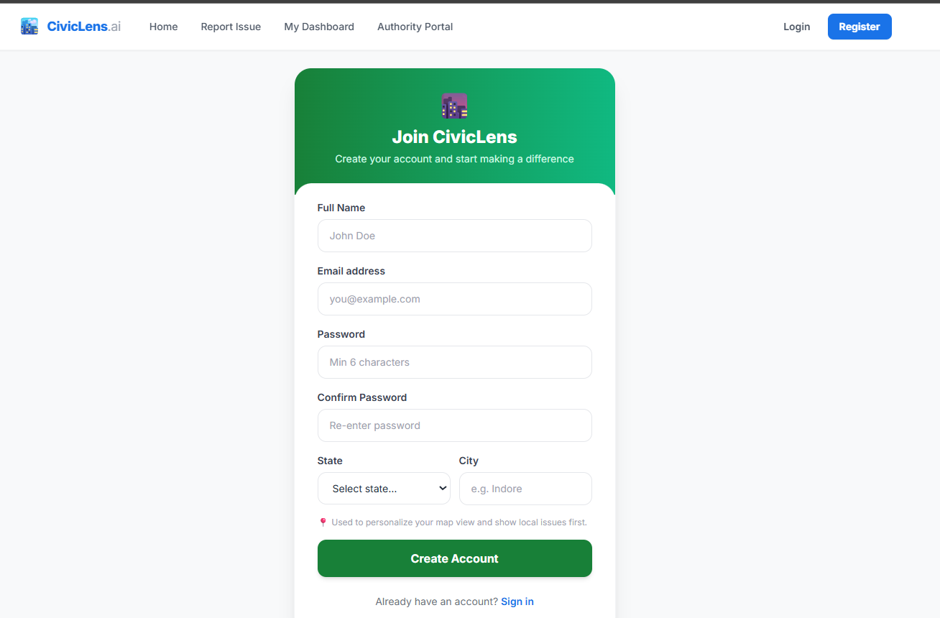
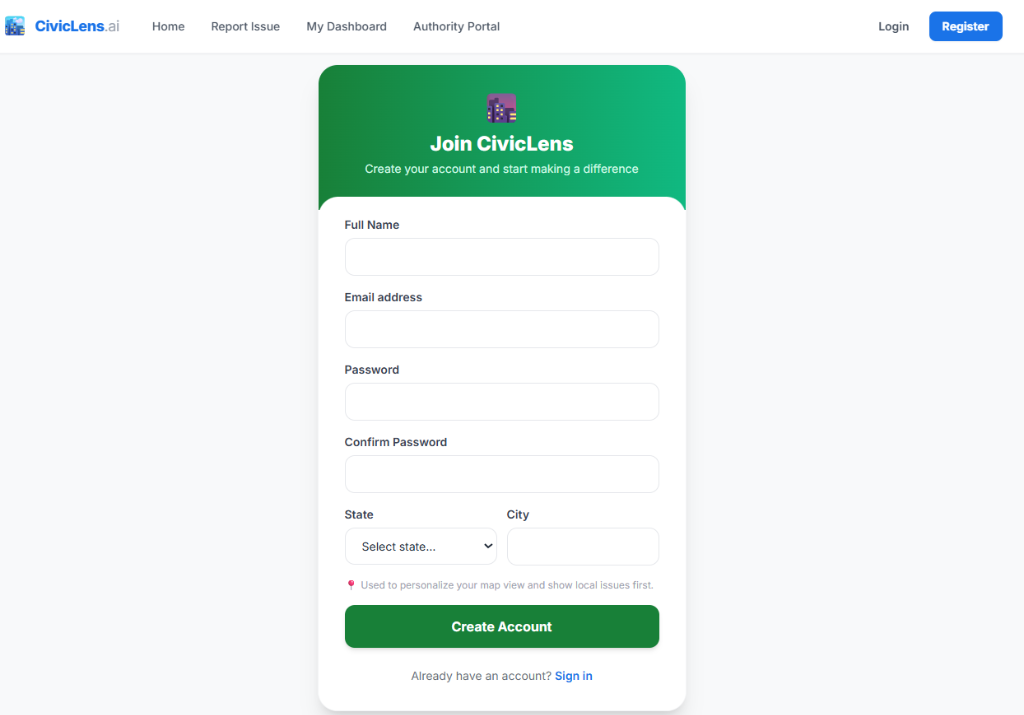
Minor UI and documentation updates

diff --git a/client/src/pages/Register.jsx b/client/src/pages/Register.jsx
@@ -78,7 +78,6 @@ export default function Register() {
                   className="w-full px-4 py-3 border border-gray-200 rounded-xl text-sm text-gray-800
                     focus:outline-none focus:ring-2 focus:ring-civic-success/40 focus:border-civic-success
                     transition-all duration-200 placeholder-gray-400"
-                  placeholder="John Doe"
                   disabled={loading}
                 />
               </div>
@@ -94,7 +93,6 @@ export default function Register() {
                   className="w-full px-4 py-3 border border-gray-200 rounded-xl text-sm text-gray-800
                     focus:outline-none focus:ring-2 focus:ring-civic-success/40 focus:border-civic-success
                     transition-all duration-200 placeholder-gray-400"
-                  placeholder="[email redacted]"
                   disabled={loading}
                 />
               </div>
@@ -110,7 +108,6 @@ export default function Register() {
                   className="w-full px-4 py-3 border border-gray-200 rounded-xl text-sm text-gray-800
                     focus:outline-none focus:ring-2 focus:ring-civic-success/40 focus:border-civic-success
                     transition-all duration-200 placeholder-gray-400"
-                  placeholder="Min 6 characters"
                   disabled={loading}
                 />
               </div>
@@ -128,7 +125,6 @@ export default function Register() {
                     ${confirmPw && confirmPw !== password
                       ? 'border-red-300 focus:ring-red-200 focus:border-red-400'
                       : 'border-gray-200 focus:ring-civic-success/40 focus:border-civic-success'}`}
-                  placeholder="Re-enter password"
                   disabled={loading}
                 />
                 {confirmPw && confirmPw !== password && (
@@ -163,7 +159,6 @@ export default function Register() {
                   value={city}
                   onChange={e => setCity(e.target.value)}
                   disabled={loading}
-                  placeholder="e.g. Indore"
                   className="w-full px-4 py-3 border border-gray-200 rounded-xl text-sm text-gray-800
                     focus:outline-none focus:ring-2 focus:ring-civic-success/40 focus:border-civic-success
                     transition-all duration-200 placeholder-gray-400"

diff --git a/client/src/pages/Home.jsx b/client/src/pages/Home.jsx
@@ -335,7 +335,7 @@ export default function Home() {
         <div className="flex flex-wrap justify-center gap-10 fade-up" style={{ animationDelay: '0.4s' }}>
           {[
             { n: statsLoading ? '...' : ((stats && stats.total_issues) || 15) + '+', label: 'Issues Analyzed' },
-            { n: '3',  label: 'Autonomous AI Agents' },
+            { n: '5',  label: 'Autonomous AI Agents' },
             { n: '5+', label: 'Departments Connected' },
           ].map((s, i) => (
             <div key={i} className="text-center">

diff --git a/client/src/pages/Login.jsx b/client/src/pages/Login.jsx
@@ -69,7 +69,6 @@ export default function Login() {
                   className="w-full px-4 py-3 border border-gray-200 rounded-xl text-sm text-gray-800
                     focus:outline-none focus:ring-2 focus:ring-civic-primary/40 focus:border-civic-primary
                     transition-all duration-200 placeholder-gray-400"
-                  placeholder="[email redacted]"
                   disabled={loading}
                 />
               </div>
@@ -87,7 +86,6 @@ export default function Login() {
                   className="w-full px-4 py-3 border border-gray-200 rounded-xl text-sm text-gray-800
                     focus:outline-none focus:ring-2 focus:ring-civic-primary/40 focus:border-civic-primary
                     transition-all duration-200 placeholder-gray-400"
-                  placeholder="••••••••"
                   disabled={loading}
                 />
               </div>

diff --git a/create_docx.py b/create_docx.py
@@ -1,0 +1,56 @@
+import os
+import re
+from docx import Document
+from docx.shared import Inches
+
+def create_doc():
+    doc = Document()
+    
+    with open('submission_report.md', 'r', encoding='utf-8') as f:
+        content = f.read()
+        
+    lines = content.split('\n')
+    
+    for line in lines:
+        line = line.strip()
+        if not line:
+            continue
+            
+        # Check if it's a heading
+        if line.startswith('# '):
+            doc.add_heading(line[2:].replace('**', ''), 0)
+        elif line.startswith('## '):
+            doc.add_heading(line[3:].replace('**', ''), 1)
+        elif line.startswith('### '):
+            doc.add_heading(line[4:].replace('**', ''), 2)
+            
+        # Check if it's an image
+        elif line.startswith('![') and '](' in line:
+            # Extract image path
+            match = re.search(r'!\[.*?\]\((.*?)\)', line)
+            if match:
+                img_path = match.group(1)
+                if img_path.startswith('./'):
+                    img_path = img_path[2:]
+                if os.path.exists(img_path):
+                    try:
+                        doc.add_picture(img_path, width=Inches(5.5))
+                    except Exception as e:
+                        doc.add_paragraph(f"Error loading image: {img_path}")
+                else:
+                    doc.add_paragraph(f"[Image not found: {img_path}]")
+        
+        # Check if it's a list item
+        elif line.startswith('- ') or line.startswith('* '):
+            clean_line = line[2:].replace('**', '')
+            doc.add_paragraph(clean_line, style='List Bullet')
+            
+        else:
+            clean_line = line.replace('**', '')
+            doc.add_paragraph(clean_line)
+            
+    doc.save('CivicLens_Submission_Report.docx')
+    print("Successfully generated CivicLens_Submission_Report.docx!")
+
+if __name__ == "__main__":
+    create_doc()

diff --git a/verify_docx.py b/verify_docx.py
@@ -1,0 +1,19 @@
+from docx import Document
+
+try:
+    doc = Document('CivicLens_Submission_Report.docx')
+    paragraphs = len(doc.paragraphs)
+    
+    # In python-docx, images are stored in inline shapes
+    images = 0
+    for p in doc.paragraphs:
+        for r in p.runs:
+            if r._element.xpath('.//pic:pic'):
+                images += len(r._element.xpath('.//pic:pic'))
+    
+    print(f"Verification Success!")
+    print(f"Total Paragraphs/Headings: {paragraphs}")
+    print(f"Total Images successfully embedded: {images}")
+    
+except Exception as e:
+    print(f"Error reading docx: {e}")

diff --git a/submission_report.md b/submission_report.md
@@ -1,6 +1,5 @@
 # CivicLens.ai - Project Description
 
-*(Note: Copy and paste the contents of this document directly into your Google Doc for submission)*
 
 ## Problem Statement Selected
 **Community Hero - Hyperlocal Problem Solver**
@@ -15,60 +14,77 @@ The core innovation of CivicLens is enforcing government accountability. We real
 **Overcoming Bureaucratic Constraints (API-Ready Design):**
 Recognizing the legal and bureaucratic impossibility of directly integrating with legacy government IT systems during a hackathon, we built CivicLens to be modular and "API-Ready." We created a simulated Authority Dashboard (the "Oracle") to demonstrate how government officials would receive AI-processed data. The moment a city grants API access, our AI router simply swaps its database write for a POST request to their native grievance system—requiring zero changes to our AI logic.
 
+## 🚀 Live Links & Demo Access
+- **Live App:** [https://civiclens-ca27d.web.app](https://civiclens-ca27d.web.app)
+- **GitHub Repository:** [https://github.com/Aryan4283/civiclens-ai](https://github.com/Aryan4283/civiclens-ai)
+- **Demo Account (Judges):** Use the following credentials to bypass registration and instantly test the platform.
+  - **Email:** [email redacted]
+  - **Password:** CivicLens2026
+
 ## Key Features & Visual Journey
 
 **1. Seamless Citizen Onboarding**
 Citizens are welcomed by a modern, accessible interface that immediately drives action.
-*Insert: `01-landing-page.png`, `02-home-feed.png`, `03-register.png`, `04-login.png`*
+![Landing Page](./screenshots/01-landing-page.png)
+![Home Feed](./screenshots/02-home-feed.png)
+![Register](./screenshots/03-register.png)
+![Login](./screenshots/04-login.png)
 
 **2. Mega-Issue Clustering (The Feed)**
 To prevent spamming the government, if 50 people report the same pothole, our geolocation algorithm merges them into a single "Mega-Issue," proving massive public impact instead of creating 50 duplicate tickets.
-*Insert: `05-issue-cards.png`*
+![Mega-Issue Clustering](./screenshots/05-issue-cards.png)
 
 **3. Multi-Modal Vision & Multilingual Input**
 Users upload a photo of the issue. Our Observer Agent uses Gemini to automatically extract the category, assess the severity (1-5), and generate a detailed hazard description. Additionally, we support multilingual text input — citizens can describe issues in Hindi, Marathi, or any regional language, and the AI translates automatically.
-*Insert: `06-report-upload.png`, `07-report-analysis.png`, `08-report-confirmed.png`*
+![Report Upload](./screenshots/06-report-upload.png)
+![AI Analysis](./screenshots/07-report-analysis.png)
+![Report Confirmed](./screenshots/08-report-confirmed.png)
 
 **4. The SLA Engine & Citizen Chatbot**
 Every issue is given a strict AI-calculated deadline based on severity. The issue detail page also features a contextual chatbot where citizens can ask questions about the SLA, and Gemini answers using the issue's real-time metadata.
-*Insert: `09-issue-detail.png`, `10-issue-complaint.png`*
+![Issue Detail & SLA](./screenshots/09-issue-detail.png)
+![Citizen Chatbot](./screenshots/10-issue-complaint.png)
 
 **5. Gamification (Civic Points)**
 To combat apathy, citizens earn points and climb the leaderboard by reporting issues and physically verifying other people's reports, building a decentralized ledger of civic truth.
-*Insert: `11-citizen-dashboard.png`*
+![Citizen Dashboard](./screenshots/11-citizen-dashboard.png)
 
 **6. AI Quality Assurance (Resolution Proof)**
 When an authority claims to have fixed an issue, they upload a photo. The AI acts as an impartial inspector, comparing the original issue to the repair photo to prevent fraudulent ticket closures.
-*Insert: `12-fix-proof.png`, `13-before-after.png`*
+![Fix Proof Upload](./screenshots/12-fix-proof.png)
+![AI Before/After Comparison](./screenshots/13-before-after.png)
 
 **7. The Authority Dashboard (The Command Center & Oracle)**
 We built a comprehensive, AI-powered command center for government officials to manage city infrastructure efficiently. Instead of relying on manual data entry, the dashboard provides predictive analytics and real-time SLA tracking.
 
 - **Authority Workspace & Identity:** A secure, centralized portal where government officials log in to oversee city-wide infrastructure issues.
-  *Insert: `14_logged_in.png`*
+  ![Authority Workspace](./screenshots/14_logged_in.png)
 
 - **AI Action Queue & Kanban Board:** A real-time, status-based Kanban board with dropdown controls that tracks incoming issues. The system automatically prioritizes tickets based on their AI-assigned severity score and SLA deadlines, ensuring critical emergencies never slip through the cracks.
-  *Insert: `15-action-queue.png`, `19-kanban.png`*
+  ![Action Queue](./screenshots/15-action-queue.png)
+  ![Kanban Board](./screenshots/19-kanban.png)
 
 - **Department Scorecard (Impact Dashboard):** A transparency tool that tracks the overall resolution rate, average SLA compliance, and civic points. This enforces accountability by showing exactly how fast authorities respond to citizen complaints.
-  *Insert: `16-scorecard.png`*
+  ![Department Scorecard](./screenshots/16-scorecard.png)
 
 - **The Civic Oracle (AI Predictive Reports):** A powerful AI report generator exclusively for government officials. By generating predictive reports, the Oracle analyzes city-wide data to detect recurring issues (e.g., repeating water leaks in the same ward) and forecasts future infrastructure failures, shifting the government from being *reactive* to *preventative*.
-  *Insert: `17-oracle.png`, `18-city-report.png`*
+  ![Civic Oracle Dashboard](./screenshots/17-oracle.png)
+  ![Predictive City Report](./screenshots/18-city-report.png)
 
 ## Technologies Used
 - **Frontend:** React.js, Vite, Tailwind CSS (Glassmorphism design system)
-- **Backend:** Node.js, Express
-- **Database:** Firebase Firestore (NoSQL, Real-time)
+- **Backend:** Node.js, Express, Node-Cron (Autonomous Background Jobs)
+- **Database:** Firebase Firestore (NoSQL, Real-time Base64 Media Storage)
 - **Authentication:** Firebase Auth
 - **Containerization:** Docker
 
 ## Google Technologies Utilized
-- **Google Gen AI SDK (Gemini):** This is the core intelligence of the platform. We utilized `gemini-3.5-flash` to power four distinct agents:
-  - **Observer Agent:** Utilizes True Function Calling (Structured JSON outputs) to process multi-modal image uploads and multilingual text input — citizens can describe issues in Hindi, Marathi, or any regional language; AI translates automatically.
-  - **Router Agent:** Utilizes RAG (Retrieval-Augmented Generation) to analyze synthetic municipal policy documents (`sla_document.md`) and assign legal deadlines.
+- **Google Gen AI SDK (Gemini):** This is the core intelligence of the platform. We utilized `gemini-3.5-flash` to power five distinct agents:
+  - **Observer Agent:** Utilizes True Function Calling (Structured JSON outputs) to perform Computer Vision analysis on multi-modal image and video-based issue reporting, and process multilingual text input — citizens can describe issues in Hindi, Marathi, or any regional language; AI translates automatically.
+  - **Router Agent:** Utilizes RAG (Retrieval-Augmented Generation) to analyze synthetic municipal policy documents (`sla_document.md`) to autonomously determine jurisdiction and assign legally-binding SLA deadlines.
+  - **Escalator & Synthesizer Agents:** Autonomous AI agents that run on chronological background cron jobs to mathematically cluster Mega-Issues and generate city-wide predictive Oracle reports without human intervention.
   - **QA Agent:** Performs comparative visual analysis between "before" and "after" photos.
-  - **Custom Fallback Mesh:** We built a custom SDK wrapper that intercepts rate-limit errors and silently falls back to `gemini-3.1-flash-lite`, ensuring 100% uptime during evaluation.
+- **Custom AI Fallback Mesh:** We built a custom SDK wrapper that intercepts rate-limit errors and silently falls back to `gemini-3.1-flash-lite`, ensuring 100% uptime during evaluation.
 - **Google Cloud Run:** The entire Node.js AI backend is containerized with Docker and deployed to Cloud Run for scalable, serverless execution.
 - **Firebase Hosting:** Delivers the React frontend via Google's global CDN.
 - **Google Maps API:** Used for high-accuracy geolocation pinning, reverse geocoding, and mapping issue clusters across the city.

diff --git a/README.md b/README.md
@@ -5,9 +5,13 @@
 CivicLens.ai is an intelligent, multi-agent platform that empowers citizens to report community issues while using AI to enforce government accountability, assign SLA deadlines, and verify issue resolution. 
 
 ## 🚀 Live Demo
-- **Frontend (Citizen App):** [Insert Firebase .web.app Link]
-- **Backend (AI Engine):** [Insert Google Cloud Run .run.app Link]
-- **Google Doc Report:** [Insert Google Doc Link]
+- **Frontend (Citizen App):** [https://civiclens-ca27d.web.app](https://civiclens-ca27d.web.app)
+- **Backend (AI Engine):** [https://civiclens-api-249711436990.asia-south1.run.app](https://civiclens-api-249711436990.asia-south1.run.app)
+
+## 🔑 Demo Credentials
+*(Feel free to use this account to bypass registration and explore the platform immediately)*
+- **Email:** [email redacted]
+- **Password:** CivicLens2026
 
 ---
 
@@ -17,12 +21,12 @@ Most civic reporting apps act as a "black hole" where complaints disappear. Civi
 ## ✨ Key Features
 
 ### 1. Multi-Modal AI Reporting
-Citizens can upload a photo of a pothole, leak, or hazard. Our **Observer Agent** (powered by Gemini) uses True Function Calling to extract structured data: categorizing the issue, scoring its severity (1-5), and generating a detailed description.
+Citizens can upload a photo of a pothole, leak, or hazard. Our **Observer Agent** (powered by Gemini) performs Computer Vision analysis and uses True Function Calling to extract structured data: categorizing the issue, scoring its severity (1-5), and generating a detailed description.
 
 ![AI Analysis](./screenshots/07-report-analysis.png)
 
 ### 2. AI-Enforced SLAs (Service Level Agreements)
-Instead of just classifying an issue, our **Router Agent** cross-references a municipal rulebook to automatically assign a strict deadline (e.g., 24 hours for a severe water leak) and route it to the correct government department.
+Instead of just classifying an issue, our **Router Agent** cross-references a municipal rulebook to autonomously determine jurisdiction, assign a legally-binding deadline (e.g., 24 hours for a severe water leak), and route it to the correct government department.
 
 ![Issue Detail & SLA](./screenshots/09-issue-detail.png)
 
@@ -50,13 +54,13 @@ Government officials have access to an AI Action Queue (Kanban board) to manage 
 - Firebase Hosting
 
 **Backend:**
-- Node.js & Express
+- Node.js, Express & Node-Cron (Autonomous Background Jobs)
 - Google Cloud Run (Dockerized)
-- Firebase Firestore (NoSQL Database)
+- Firebase Firestore (NoSQL, Real-time Base64 Media Storage)
 - Firebase Authentication
 
 **Google Technologies Utilized:**
-- **Google Gen AI SDK (Gemini):** Powered by `gemini-3.5-flash` for high-speed multi-modal vision, true function calling, and multilingual text processing. Includes a custom fallback mesh to `gemini-3.1-flash-lite` for rate-limit resilience.
+- **Google Gen AI SDK (Gemini):** Powered by `gemini-3.5-flash` for high-speed multi-modal vision, true function calling, and multilingual text processing. Includes a **Custom AI Fallback Mesh** to `gemini-3.1-flash-lite` for rate-limit resilience and 100% uptime.
 - **Google Maps API:** For geolocation pinning and reverse geocoding.
 - **Google Cloud Run & Firebase:** Serverless, auto-scaling deployment.
 